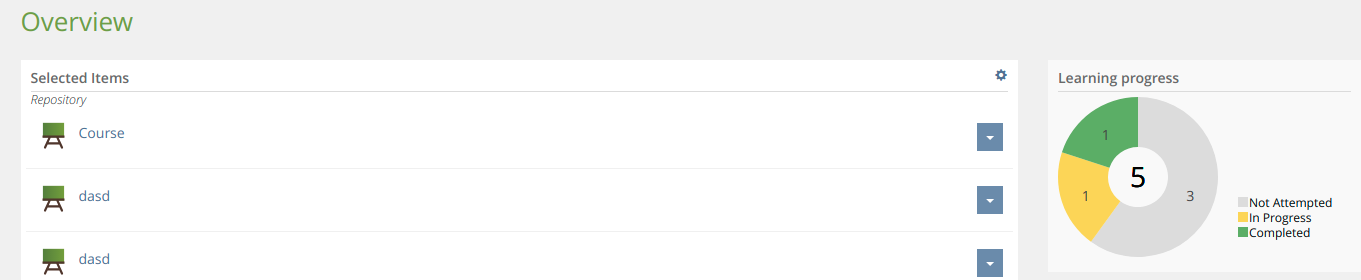
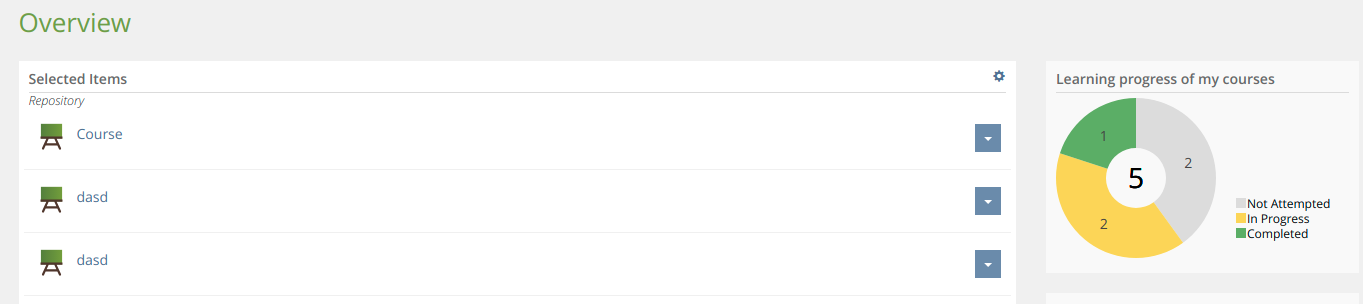
Fix

diff --git a/src/Block/BaseBlock.php b/src/Block/BaseBlock.php
@@ -25,7 +25,7 @@ abstract class BaseBlock extends ilBlockGUI {
 	/**
 	 * @var int[]
 	 */
-	protected $ref_ids = [];
+	protected $obj_ids = [];
 
 
 	/**
@@ -46,9 +46,9 @@ abstract class BaseBlock extends ilBlockGUI {
 
 		self::dic()->mainTemplate()->addJavaScript(self::plugin()->directory() . "/node_modules/d3/dist/d3.min.js");
 
-		$this->setTitle(self::plugin()->translate("learning_progress", self::LANG_MODULE_BLOCK));
+		$this->initTitle();
 
-		$this->initRefIds();
+		$this->initObjIds();
 
 		self::dic()->language()->loadLanguageModule("trac");
 	}
@@ -58,7 +58,7 @@ abstract class BaseBlock extends ilBlockGUI {
 	 *
 	 */
 	public function fillDataSection()/*: void*/ {
-		$courses = array_reduce($this->ref_ids, function (array $data, int $obj_id): array {
+		$courses = array_reduce($this->obj_ids, function (array $data, int $obj_id): array {
 			$status = self::ilias()->learningProgress(self::dic()->user())->getStatus($obj_id);
 
 			if (!isset($data[$status])) {
@@ -91,7 +91,7 @@ abstract class BaseBlock extends ilBlockGUI {
 		$tpl = self::plugin()->template("chart.html", false, false);
 
 		$tpl->setVariable("DATA", json_encode($data));
-		$tpl->setVariable("COUNT", count($this->ref_ids));
+		$tpl->setVariable("COUNT", count($this->obj_ids));
 
 		$this->setDataSection(self::output()->getHTML($tpl));
 	}
@@ -116,6 +116,13 @@ abstract class BaseBlock extends ilBlockGUI {
 	/**
 	 *
 	 */
-	protected abstract function initRefIds()/*: void*/
+	protected abstract function initObjIds()/*: void*/
+	;
+
+
+	/**
+	 *
+	 */
+	protected abstract function initTitle()/*: void*/
 	;
 }

diff --git a/src/Block/CourseBlock.php b/src/Block/CourseBlock.php
@@ -2,6 +2,8 @@
 
 namespace srag\Plugins\SrLearningProgressPDBlock\Block;
 
+use ilObject;
+
 /**
  * Class CourseBlock
  *
@@ -14,7 +16,15 @@ class CourseBlock extends BaseBlock {
 	/**
 	 * @inheritdoc
 	 */
-	protected function initRefIds()/*: void*/ {
-		$this->ref_ids = [ intval(filter_input(INPUT_GET, "ref_id")) ];
+	protected function initObjIds()/*: void*/ {
+		$this->obj_ids = [ intval(ilObject::_lookupObjectId(filter_input(INPUT_GET, "ref_id"))) ];
+	}
+
+
+	/**
+	 * @inheritdoc
+	 */
+	protected function initTitle()/*: void*/ {
+
 	}
 }

diff --git a/src/Block/PersonalDesktopBlock.php b/src/Block/PersonalDesktopBlock.php
@@ -14,7 +14,15 @@ class PersonalDesktopBlock extends BaseBlock {
 	/**
 	 * @inheritdoc
 	 */
-	protected function initRefIds()/*: void*/ {
-		$this->ref_ids = self::ilias()->courses()->getCoursesOfUser(self::dic()->user());;
+	protected function initObjIds()/*: void*/ {
+		$this->obj_ids = self::ilias()->courses()->getCoursesOfUser(self::dic()->user());;
+	}
+
+
+	/**
+	 * @inheritdoc
+	 */
+	protected function initTitle()/*: void*/ {
+		$this->setTitle(self::plugin()->translate("learning_progress_of_my_courses", self::LANG_MODULE_BLOCK));
 	}
 }
